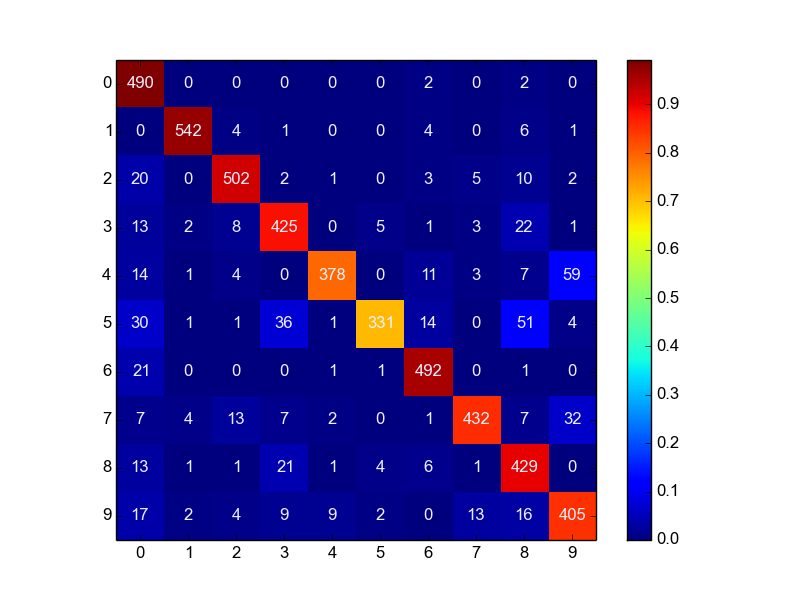
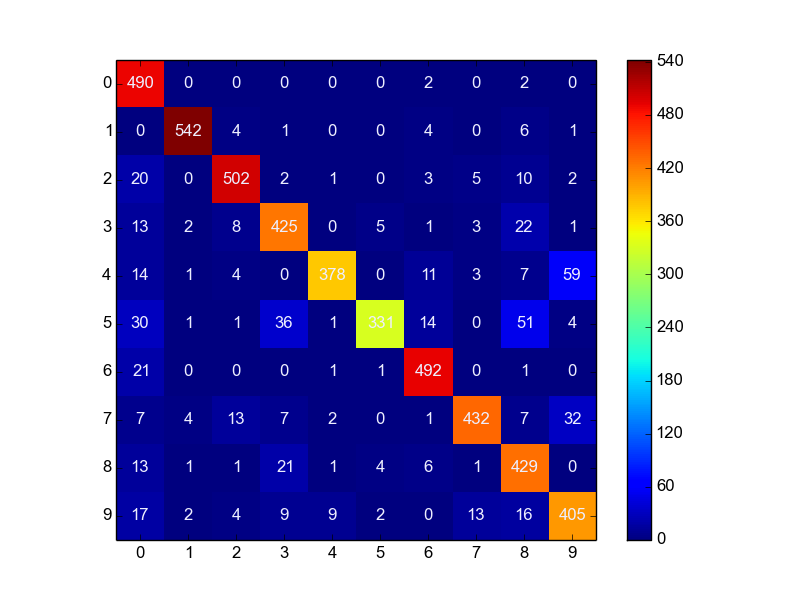
graficos piola

diff --git a/Experimentacion/confusion.py b/Experimentacion/confusion.py
@@ -13,28 +13,16 @@ conf_arr = [[744,0,21,8,10,16,16,6,12,13],
 [4,4,29,39,16,29,15,7,612,18],
 [1,1,4,15,71,18,2,34,23,617]]
 
-conf_arr = [[488, 0, 0, 0, 0, 0, 3, 0, 2, 1],
-[0, 547, 1, 2, 0, 0, 4, 0, 3, 1],
-[12, 3, 509, 2, 1, 0, 2, 4, 11, 1],
-[7, 3, 7, 431, 0, 8, 1, 1, 21, 1],
-[8, 1, 1, 0, 413, 0, 8, 1, 0, 45],
-[11, 1, 0, 28, 1, 385, 10, 0, 25, 8],
-[11, 0, 0, 0, 2, 0, 501, 0, 2, 0],
-[5, 4, 10, 3, 4, 0, 1, 445, 1, 33 ],
-[8, 3, 2, 19, 2, 3, 8, 1, 431, 0 ],
-[11, 3, 2, 7, 8, 2, 0, 10, 4, 431]]
-
-conf_arr = [[489, 0, 0, 0, 0, 0, 2, 0, 2, 1 ],
-[0, 545, 2, 1, 0, 0, 5, 0, 4, 1 ],
-[13, 3, 506, 3, 1, 0, 2, 4, 12, 1 ],
-[5, 3, 8, 434, 0, 7, 1, 1, 20, 1 ],
-[7, 1, 2, 2, 408, 0, 9, 1, 1, 46 ],
-[12, 1, 0, 27, 1, 384, 9, 0, 29, 6 ],
-[13, 0, 0, 0, 2, 1, 498, 0, 2, 0 ],
-[6, 4 ,10, 5, 1, 0, 1 ,447, 1 ,31 ],
-[8, 3, 1, 27, 1, 4, 7, 1, 425, 0 ],
-[12, 3, 1, 8, 10, 2, 0, 9, 7, 426 ],]
-
+conf_arr = [[490,0,0,0,0,0,2,0,2,0,],
+[0,542,4,1,0,0,4,0,6,1,],
+[20,0,502,2,1,0,3,5,10,2,],
+[13,2,8,425,0,5,1,3,22,1,],
+[14,1,4,0,378,0,11,3,7,59,],
+[30,1,1,36,1,331,14,0,51,4,],
+[21,0,0,0,1,1,492,0,1,0,],
+[7,4,13,7,2,0,1,432,7,32,],
+[13,1,1,21,1,4,6,1,429,0,],
+[17,2,4,9,9,2,0,13,16,405,]]
 
 conf_arr = [[491,0,0,0,0,0,1,0,2,0,],
 [1,540,4,1,0,0,4,0,8,0,],
@@ -47,16 +35,27 @@ conf_arr = [[491,0,0,0,0,0,1,0,2,0,],
 [13,1,3,25,0,0,7,1,427,0,],
 [17,2,4,9,8,2,1,14,26,394,]]
 
-conf_arr = [[490,0,0,0,0,0,2,0,2,0,],
-[0,542,4,1,0,0,4,0,6,1,],
-[20,0,502,2,1,0,3,5,10,2,],
-[13,2,8,425,0,5,1,3,22,1,],
-[14,1,4,0,378,0,11,3,7,59,],
-[30,1,1,36,1,331,14,0,51,4,],
-[21,0,0,0,1,1,492,0,1,0,],
-[7,4,13,7,2,0,1,432,7,32,],
-[13,1,1,21,1,4,6,1,429,0,],
-[17,2,4,9,9,2,0,13,16,405,]]
+conf_arr = [[489, 0, 0, 0, 0, 0, 2, 0, 2, 1 ],
+[0, 545, 2, 1, 0, 0, 5, 0, 4, 1 ],
+[13, 3, 506, 3, 1, 0, 2, 4, 12, 1 ],
+[5, 3, 8, 434, 0, 7, 1, 1, 20, 1 ],
+[7, 1, 2, 2, 408, 0, 9, 1, 1, 46 ],
+[12, 1, 0, 27, 1, 384, 9, 0, 29, 6 ],
+[13, 0, 0, 0, 2, 1, 498, 0, 2, 0 ],
+[6, 4 ,10, 5, 1, 0, 1 ,447, 1 ,31 ],
+[8, 3, 1, 27, 1, 4, 7, 1, 425, 0 ],
+[12, 3, 1, 8, 10, 2, 0, 9, 7, 426 ],]
+
+conf_arr = [[488, 0, 0, 0, 0, 0, 3, 0, 2, 1],
+[0, 547, 1, 2, 0, 0, 4, 0, 3, 1],
+[12, 3, 509, 2, 1, 0, 2, 4, 11, 1],
+[7, 3, 7, 431, 0, 8, 1, 1, 21, 1],
+[8, 1, 1, 0, 413, 0, 8, 1, 0, 45],
+[11, 1, 0, 28, 1, 385, 10, 0, 25, 8],
+[11, 0, 0, 0, 2, 0, 501, 0, 2, 0],
+[5, 4, 10, 3, 4, 0, 1, 445, 1, 33 ],
+[8, 3, 2, 19, 2, 3, 8, 1, 431, 0 ],
+[11, 3, 2, 7, 8, 2, 0, 10, 4, 431]]
 
 
 norm_conf = []
@@ -72,7 +71,7 @@ fig = plt.figure()
 plt.clf()
 ax = fig.add_subplot(111)
 ax.set_aspect(1)
-res = ax.imshow(np.array(norm_conf), cmap=plt.cm.jet, 
+res = ax.imshow(np.array(conf_arr), cmap=plt.cm.jet, 
                 interpolation='nearest')
 
 #width, height = conf_arr.shape
